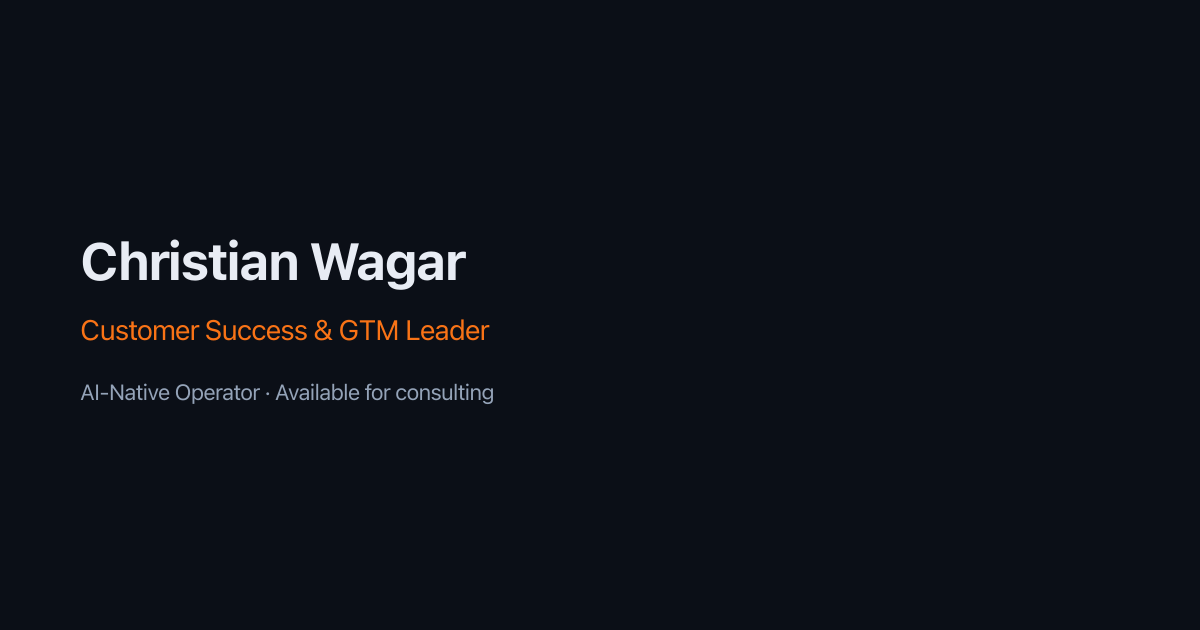
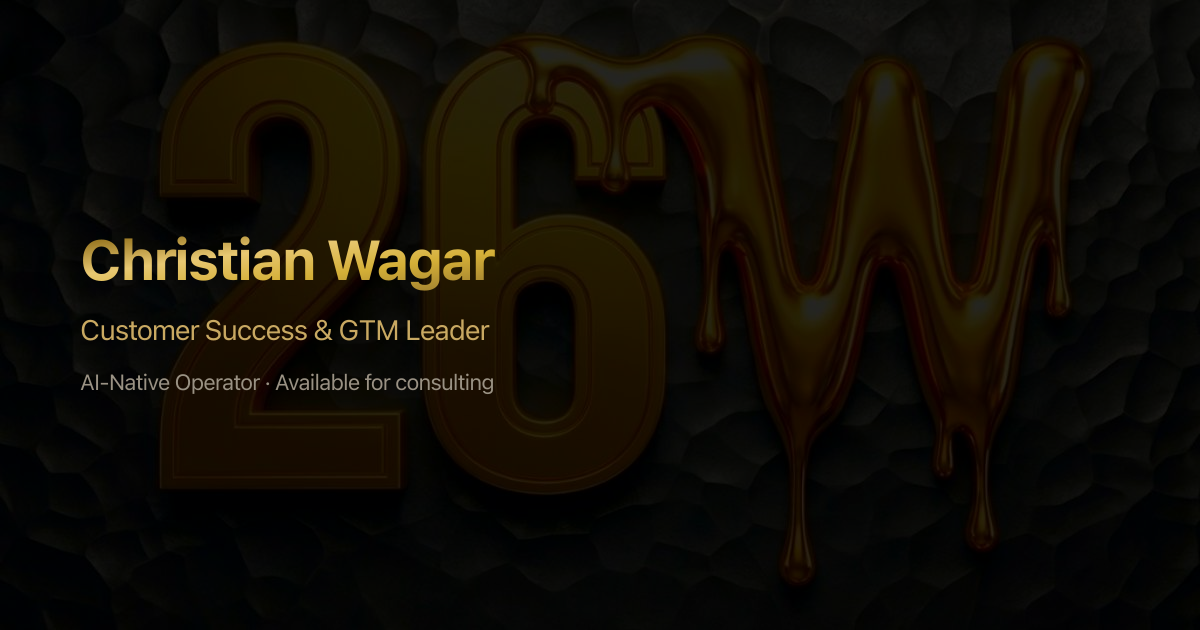
Restyle the portfolio with a black and gold visual system.
Replace the orange-on-navy theme with matte black surfaces, gold lettering, and cylinder accents so the site matches the current brand direction.

diff --git a/src/styles/global.css b/src/styles/global.css
@@ -1,15 +1,37 @@
-/* Christian Wagar Portfolio — global styles */
+/* Christian Wagar Portfolio — Black & Gold theme
+   Black bg: matte black reference (#000)
+   Gold text: gold-lettering-ref screenshot (~#C4AF73)
+   Gold cylinders: dripping gold texture references
+*/
 
 :root {
-  --bg: #0b0f17;
-  --bg-elevated: #121826;
-  --bg-card: #161f2e;
-  --border: rgba(255, 255, 255, 0.08);
-  --text: #e8ecf4;
-  --text-muted: #94a3b8;
-  --accent: #f97316;
-  --accent-soft: rgba(249, 115, 22, 0.12);
-  --accent-hover: #fb923c;
+  /* Pure matte black — from brand reference */
+  --bg: #000000;
+  --bg-elevated: #050505;
+  --bg-card: #0a0a0a;
+
+  /* Matte gold lettering — sampled from gold screenshot */
+  --gold-letter: #c4af73;
+  --gold-letter-light: #d4bc82;
+  --gold-letter-dark: #a89255;
+
+  /* Dripping gold — for cylinders, buttons, accents */
+  --gold-drip: url("/images/gold-drip-2.png");
+  --gold-drip-alt: url("/images/gold-drip-1.png");
+
+  --accent: var(--gold-letter);
+  --accent-soft: rgba(196, 175, 115, 0.1);
+  --accent-hover: var(--gold-letter-light);
+
+  --border: rgba(196, 175, 115, 0.12);
+  --border-gold: rgba(196, 175, 115, 0.28);
+  --text: #ece8df;
+  --text-muted: #8a8278;
+  --text-gold: var(--gold-letter);
+
+  --shadow-gold: 0 6px 28px rgba(196, 175, 115, 0.15);
+  --shadow-gold-strong: 0 10px 36px rgba(196, 175, 115, 0.22);
+
   --max-width: 1120px;
   --radius: 12px;
   --font: "Inter", system-ui, -apple-system, sans-serif;
@@ -28,10 +50,33 @@ html {
 body {
   margin: 0;
   font-family: var(--font);
-  background: var(--bg);
+  background-color: var(--bg);
   color: var(--text);
   line-height: 1.6;
   -webkit-font-smoothing: antialiased;
+  position: relative;
+}
+
+/* Matte black background with subtle grain from reference */
+body::before {
+  content: "";
+  position: fixed;
+  inset: 0;
+  background:
+    url("/images/bg-black.png") center / cover no-repeat,
+    var(--bg);
+  opacity: 0.45;
+  pointer-events: none;
+  z-index: -1;
+}
+
+body::after {
+  content: "";
+  position: fixed;
+  inset: 0;
+  background: radial-gradient(ellipse 70% 45% at 50% -15%, rgba(196, 175, 115, 0.04), transparent 55%);
+  pointer-events: none;
+  z-index: -1;
 }
 
 img {
@@ -41,13 +86,13 @@ img {
 }
 
 a {
-  color: var(--accent);
+  color: var(--gold-letter);
   text-decoration: none;
   transition: color 0.2s;
 }
 
 a:hover {
-  color: var(--accent-hover);
+  color: var(--gold-letter-light);
 }
 
 .container {
@@ -59,13 +104,20 @@ a:hover {
   padding: 5rem 0;
 }
 
+/* Matte gold lettering — solid, no gradient */
+.gold-text {
+  color: var(--gold-letter);
+}
+
 .section-label {
-  display: inline-block;
+  display: inline-flex;
+  align-items: center;
+  gap: 0.625rem;
   font-size: 0.75rem;
   font-weight: 600;
-  letter-spacing: 0.12em;
+  letter-spacing: 0.14em;
   text-transform: uppercase;
-  color: var(--accent);
+  color: var(--gold-letter);
   margin-bottom: 0.75rem;
 }
 
@@ -75,6 +127,7 @@ a:hover {
   line-height: 1.2;
   margin: 0 0 1rem;
   letter-spacing: -0.02em;
+  color: var(--text);
 }
 
 .section-intro {
@@ -82,6 +135,28 @@ a:hover {
   font-size: 1.0625rem;
   max-width: 56ch;
   margin: 0 0 2.5rem;
+}
+
+/* Dripping gold cylinder icon — from reference textures */
+.gold-cylinder {
+  display: inline-block;
+  width: 8px;
+  height: 24px;
+  border-radius: 999px;
+  background: var(--gold-drip) center / cover no-repeat;
+  box-shadow:
+    0 0 10px rgba(196, 175, 115, 0.35),
+    inset 0 1px 0 rgba(255, 248, 220, 0.25);
+  flex-shrink: 0;
+}
+
+.gold-cylinder--sm {
+  width: 6px;
+  height: 18px;
+}
+
+.gold-cylinder--alt {
+  background-image: var(--gold-drip-alt);
 }
 
 .btn {
@@ -94,31 +169,34 @@ a:hover {
   font-size: 0.9375rem;
   border: none;
   cursor: pointer;
-  transition: transform 0.15s, background 0.2s, box-shadow 0.2s;
+  transition: transform 0.15s, box-shadow 0.2s, filter 0.2s;
   text-decoration: none;
 }
 
 .btn-primary {
-  background: var(--accent);
-  color: #0b0f17;
+  background: #ffffff;
+  color: var(--gold-letter-dark);
+  box-shadow: 0 4px 20px rgba(0, 0, 0, 0.25);
+  border: 1px solid rgba(196, 175, 115, 0.35);
 }
 
 .btn-primary:hover {
-  background: var(--accent-hover);
-  color: #0b0f17;
-  transform: translateY(-1px);
-  box-shadow: 0 8px 24px rgba(249, 115, 22, 0.25);
+  color: var(--gold-letter);
+  background: #fafafa;
+  transform: translateY(-2px);
+  box-shadow: 0 8px 28px rgba(0, 0, 0, 0.3);
 }
 
 .btn-outline {
   background: transparent;
-  color: var(--text);
-  border: 1px solid var(--border);
+  color: var(--gold-letter);
+  border: 1px solid var(--border-gold);
 }
 
 .btn-outline:hover {
-  border-color: var(--accent);
-  color: var(--accent);
+  border-color: var(--gold-letter);
+  color: var(--gold-letter-light);
+  background: rgba(196, 175, 115, 0.06);
 }
 
 .tag {
@@ -127,22 +205,23 @@ a:hover {
   border-radius: 999px;
   font-size: 0.75rem;
   font-weight: 500;
-  background: var(--accent-soft);
-  color: var(--accent);
-  border: 1px solid rgba(249, 115, 22, 0.2);
+  background: rgba(196, 175, 115, 0.07);
+  color: var(--gold-letter);
+  border: 1px solid rgba(196, 175, 115, 0.2);
 }
 
 .card {
-  background: var(--bg-card);
+  background: linear-gradient(160deg, rgba(8, 8, 8, 0.97), rgba(0, 0, 0, 0.99));
   border: 1px solid var(--border);
   border-radius: var(--radius);
   overflow: hidden;
-  transition: border-color 0.2s, transform 0.2s;
+  transition: border-color 0.25s, transform 0.25s, box-shadow 0.25s;
 }
 
 .card:hover {
-  border-color: rgba(249, 115, 22, 0.3);
-  transform: translateY(-2px);
+  border-color: var(--border-gold);
+  transform: translateY(-3px);
+  box-shadow: 0 16px 48px rgba(0, 0, 0, 0.6), 0 0 0 1px rgba(196, 175, 115, 0.06);
 }
 
 .grid-2 {
